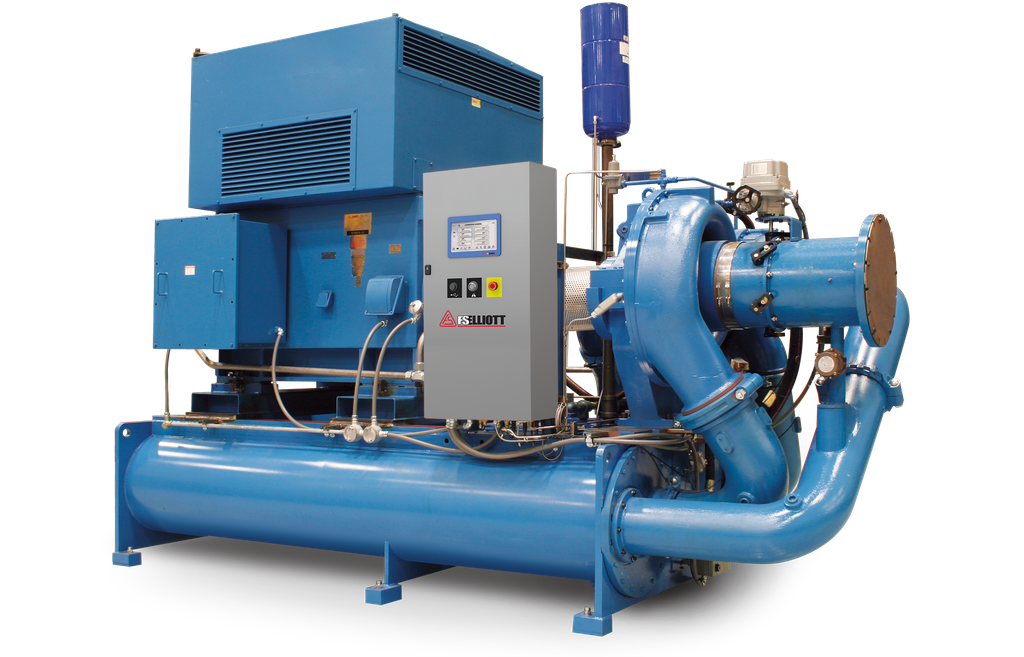
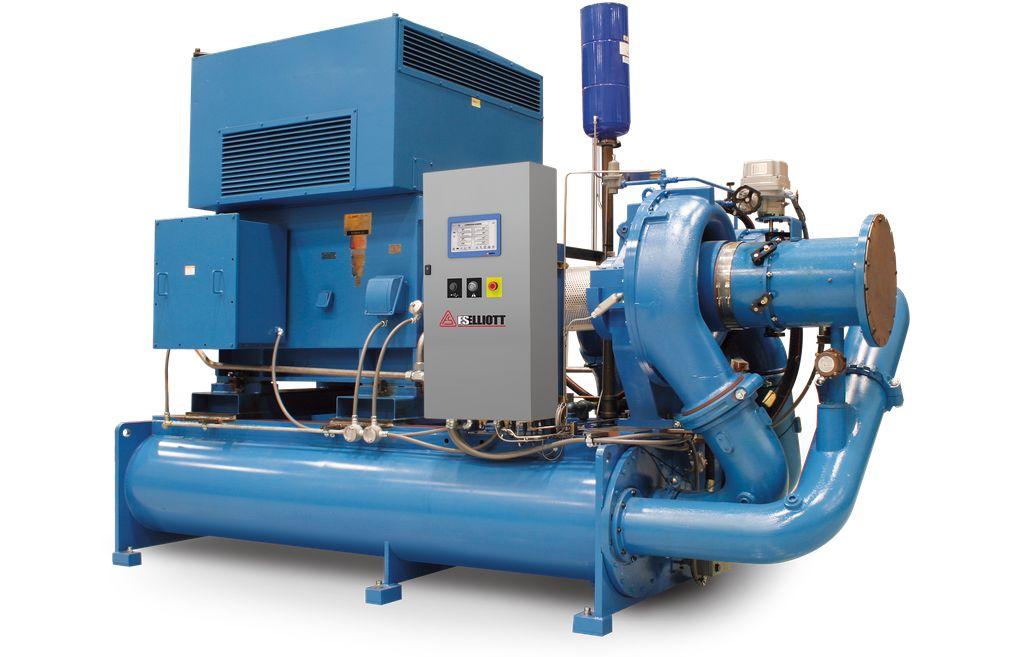
perf: lighthouse pre-audit fixes
- Compress oversized product images (1617KB -> 227KB, saved 1.39MB):
  centrifugal-compressor.jpg 666->72KB, vacuum-pumps.jpg 659->105KB,
  lubes.png 292->50KB
- Add width/height + decoding hints to Navbar and Footer logos (CLS)
- Mark Navbar logo fetchpriority=high (LCP candidate above the fold)
- Async-load Google Fonts CSS via preload + onload (eliminates
  render-blocking stylesheet; noscript fallback retained)

diff --git a/index.html b/index.html
@@ -17,10 +17,21 @@
     <link rel="dns-prefetch" href="https://maps.google.com" />
     <link rel="dns-prefetch" href="https://wa.me" />
 
+    <!-- Async Google Fonts: preload + swap-in via onload so the CSS doesn't
+         block first paint. Falls back to a synchronous load inside <noscript>
+         so SSR/no-JS clients still get the webfonts. -->
     <link
+      rel="preload"
+      as="style"
       href="https://fonts.googleapis.com/css2?family=Barlow+Condensed:wght@700;800;900&family=Barlow:wght@300;400;500;600;700&display=swap"
-      rel="stylesheet"
+      onload="this.onload=null;this.rel='stylesheet'"
     />
+    <noscript>
+      <link
+        href="https://fonts.googleapis.com/css2?family=Barlow+Condensed:wght@700;800;900&family=Barlow:wght@300;400;500;600;700&display=swap"
+        rel="stylesheet"
+      />
+    </noscript>
 
     <!-- Per-page <title>, description, OpenGraph, Twitter and JSON-LD are
          injected by the <SEO /> component in src/components/SEO.jsx via

diff --git a/src/components/layout/Footer.jsx b/src/components/layout/Footer.jsx
@@ -142,6 +142,10 @@ function AboutColumn() {
         <img
           src="/logo.png"
           alt="Sheyam Enterprises"
+          width="205"
+          height="96"
+          loading="lazy"
+          decoding="async"
           className="h-24 w-auto"
         />
       </Link>

diff --git a/src/components/layout/Navbar.jsx b/src/components/layout/Navbar.jsx
@@ -98,6 +98,10 @@ function Logo({ onClick }) {
       <img
         src="/logo.png"
         alt="Sheyam Enterprises"
+        width="171"
+        height="80"
+        fetchpriority="high"
+        decoding="async"
         className="h-20 w-auto"
       />
     </Link>